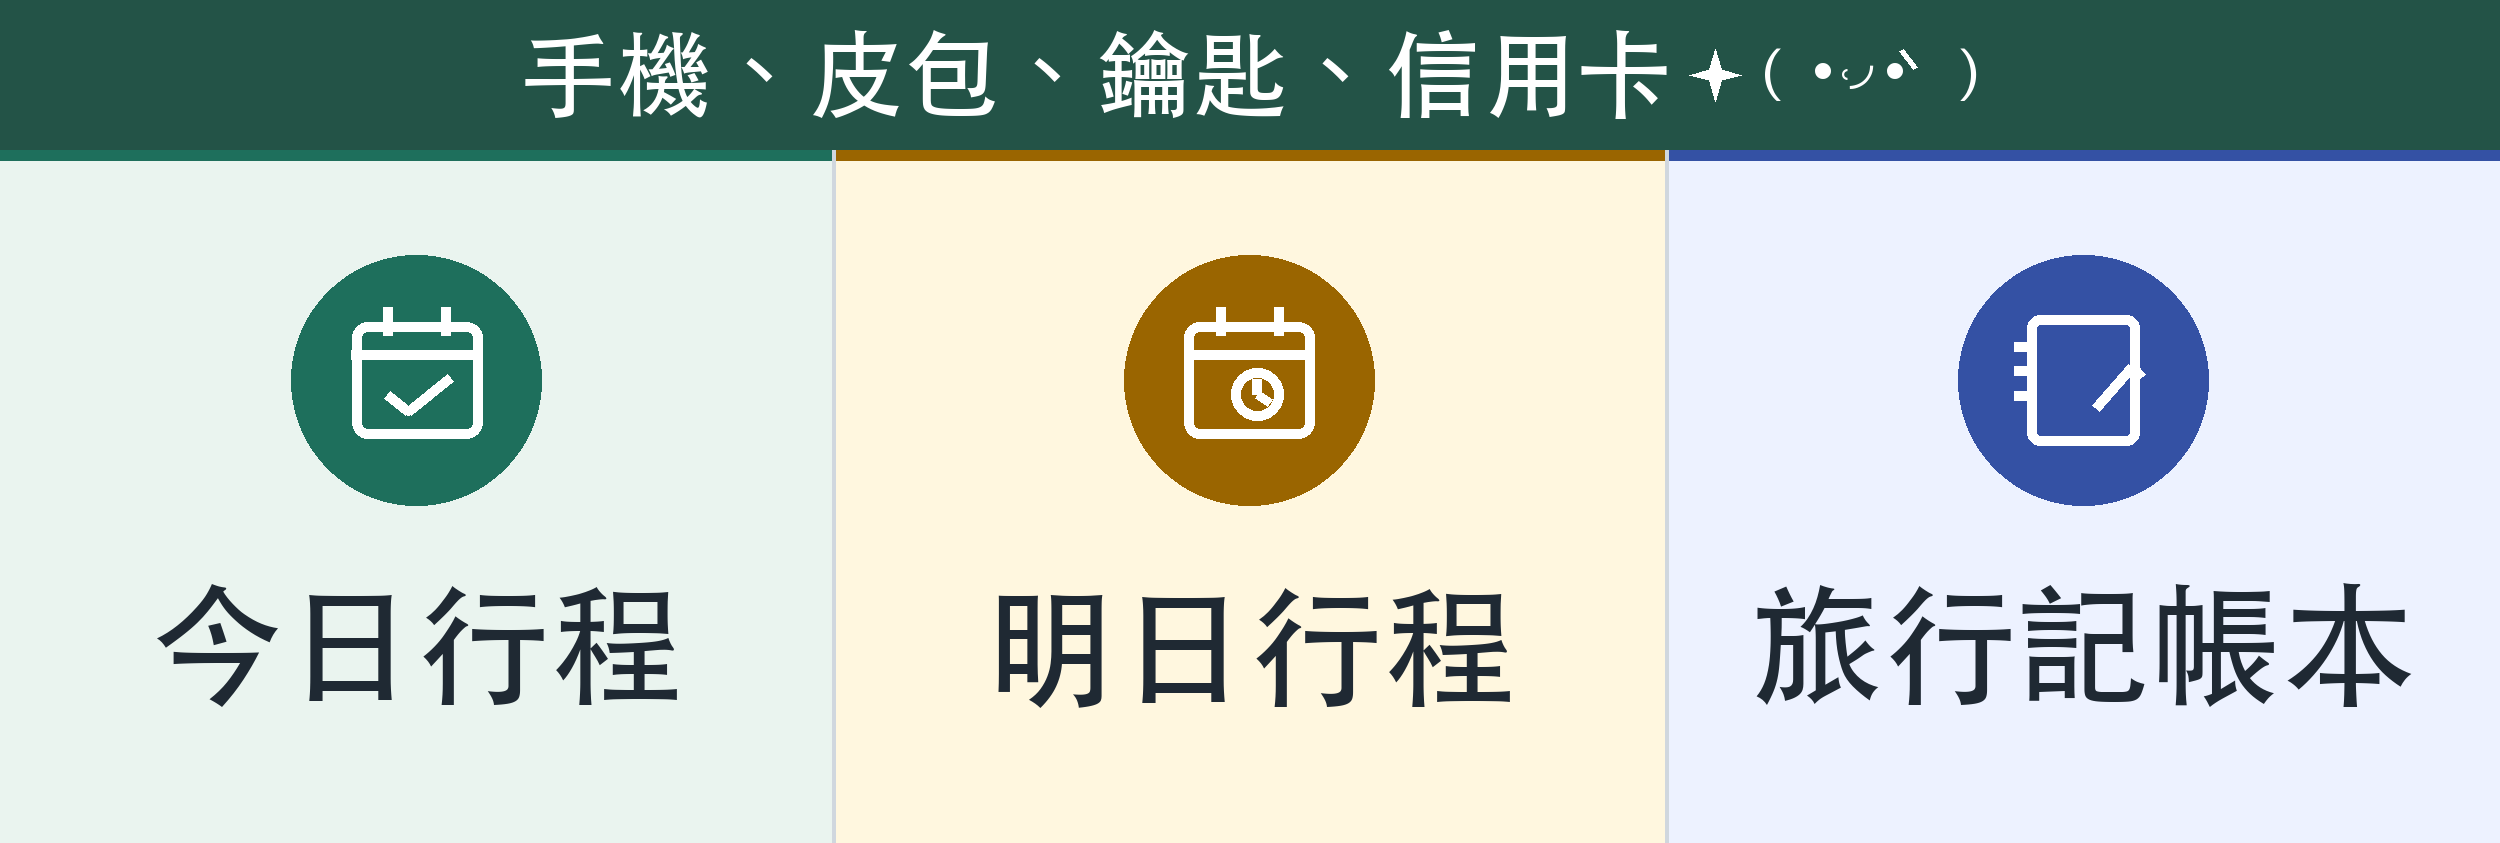
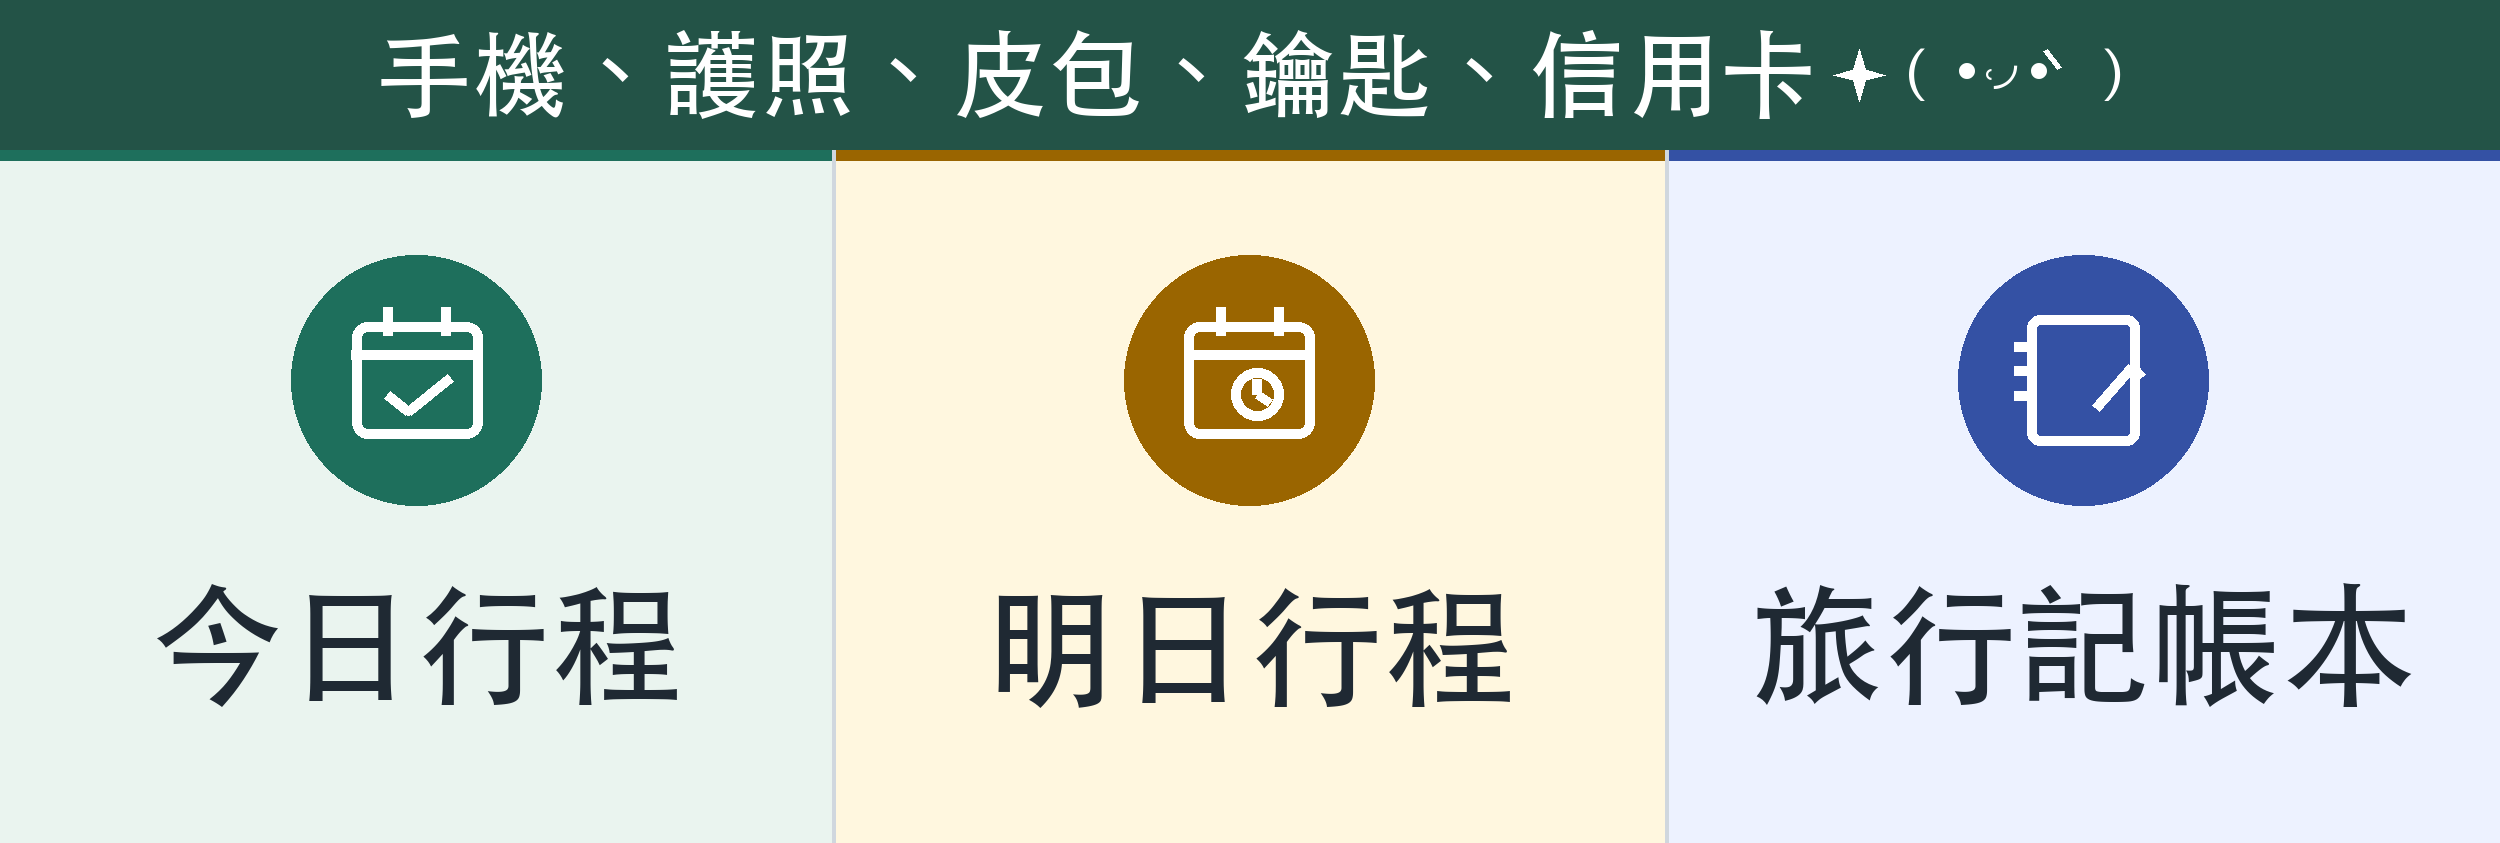
Add passport to rich menu checklist

Changed region(s): [[0.156, 0.0308, 0.8424, 0.1542]]

diff --git a/tools/create_rich_menu_assets.py b/tools/create_rich_menu_assets.py
@@ -75,7 +75,7 @@ def draw_sparkle(draw, center, size, color):
 
 def centered_title(draw, box, font, symbol_font, fill):
     left, top, right, bottom = box
-    prefix = "手機、皮包、鑰匙、信用卡"
+    prefix = "手機、護照、皮包、鑰匙、信用卡"
     suffix_base = "( •˓◞•"
     suffix_end = " )"
     gap = 18
